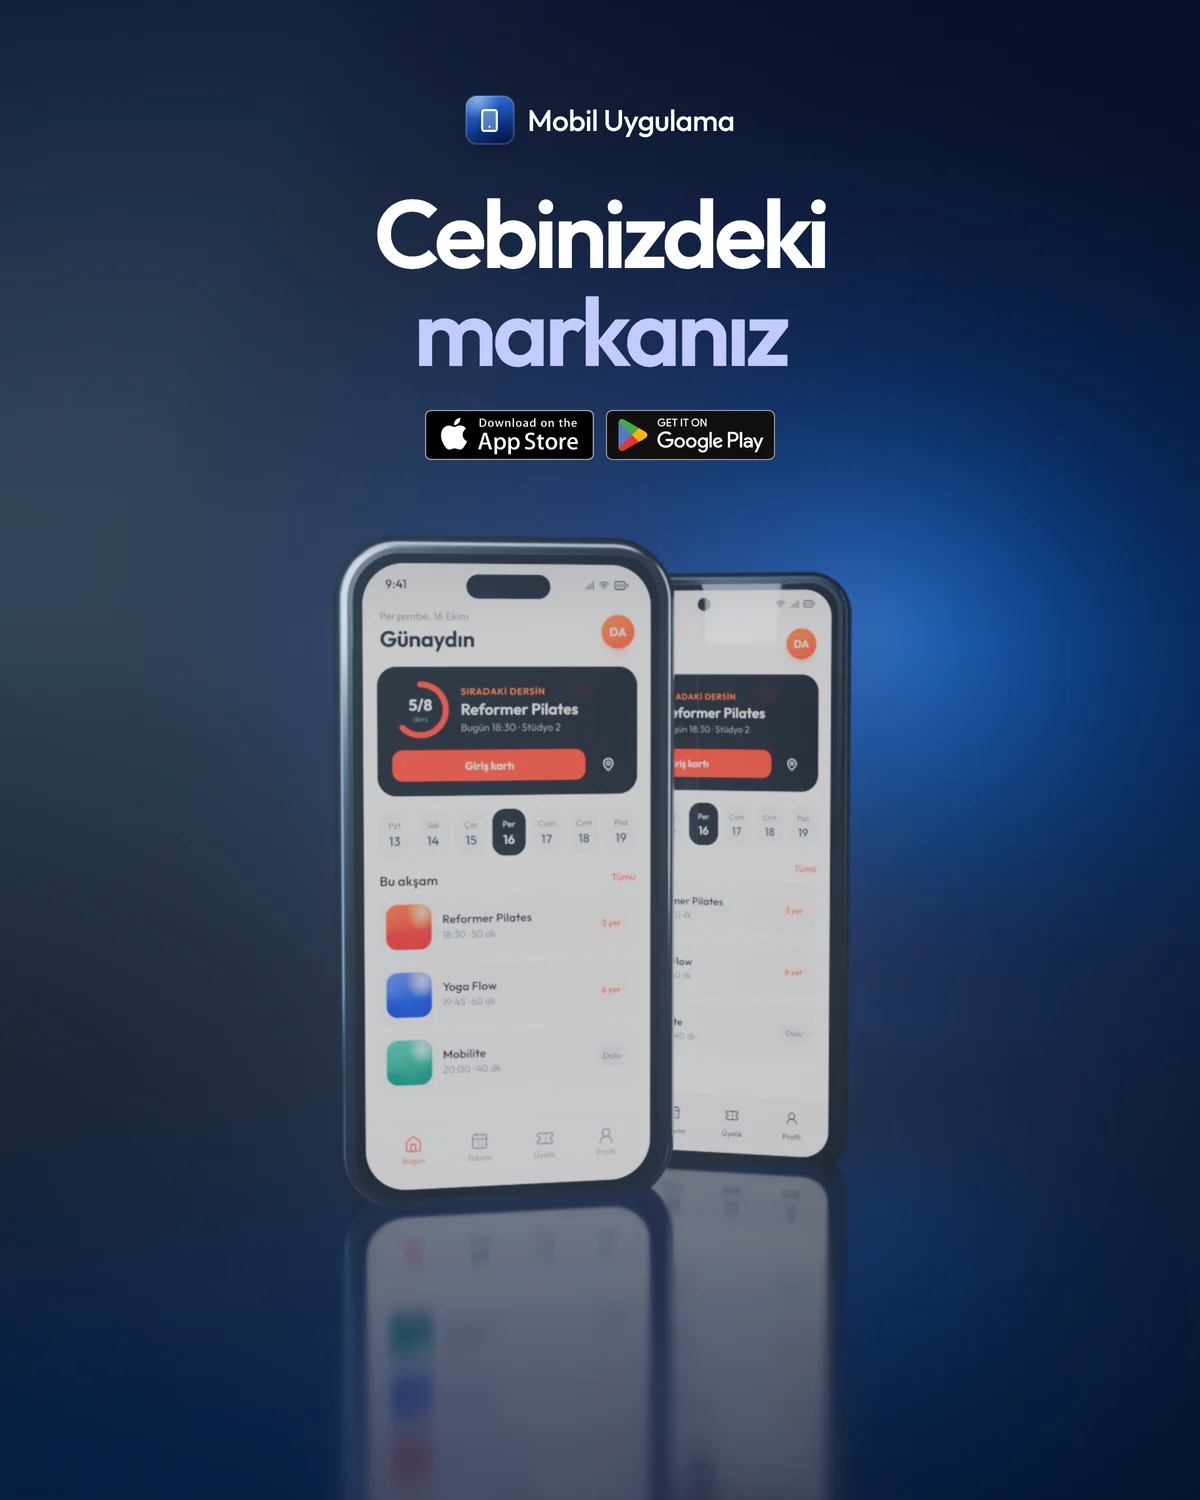
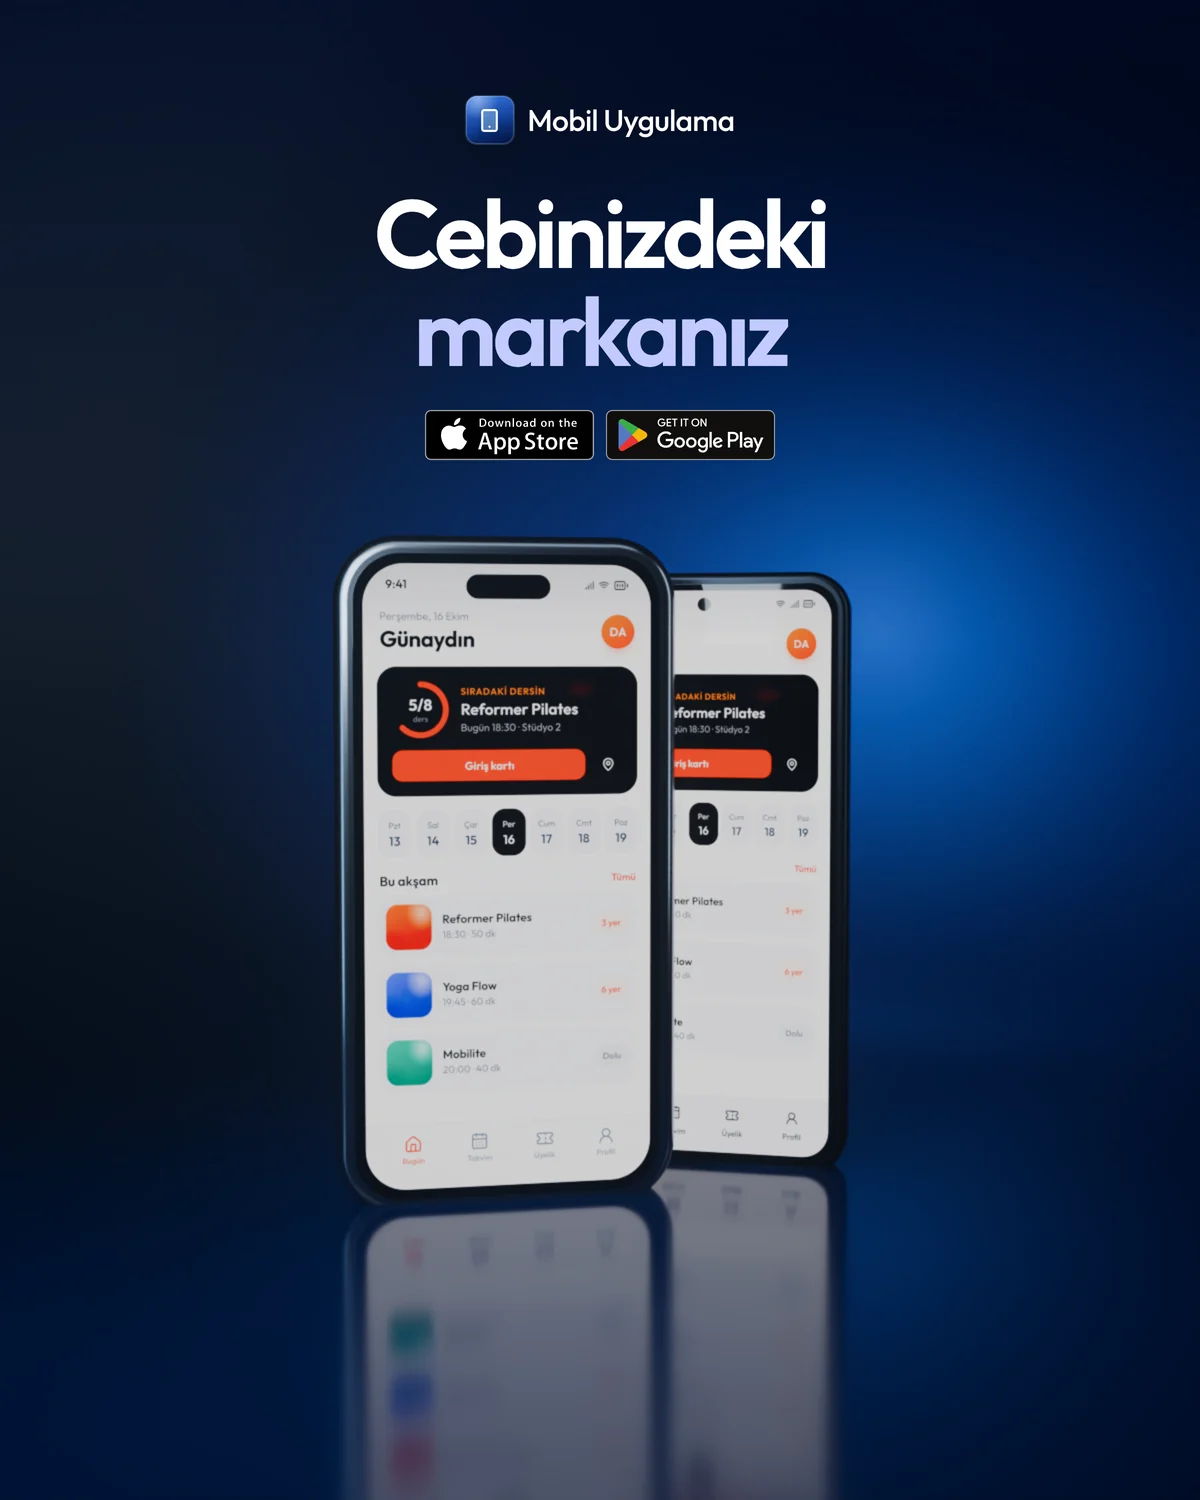
Mobil Uygulama v7: kapakta ışık ve sis, 2. karede ekran yansıması düzeltildi

diff --git a/src/migrations/index.ts b/src/migrations/index.ts
@@ -38,6 +38,7 @@ import * as migration_20261016_155000_bildirimler from './20261016_155000_bildir
 import * as migration_20261016_160000_medya_agaci from './20261016_160000_medya_agaci';
 import * as migration_20261017_100000_mobil_v5 from './20261017_100000_mobil_v5';
 import * as migration_20261017_140000_mobil_v6 from './20261017_140000_mobil_v6';
+import * as migration_20261017_170000_mobil_v7 from './20261017_170000_mobil_v7';
 
 export const migrations = [
   {
@@ -239,5 +240,10 @@ export const migrations = [
     up: migration_20261017_140000_mobil_v6.up,
     down: migration_20261017_140000_mobil_v6.down,
     name: '20261017_140000_mobil_v6',
+  },
+  {
+    up: migration_20261017_170000_mobil_v7.up,
+    down: migration_20261017_170000_mobil_v7.down,
+    name: '20261017_170000_mobil_v7',
   },
 ];

diff --git a/src/migrations/20261017_170000_mobil_v7.ts b/src/migrations/20261017_170000_mobil_v7.ts
@@ -1,0 +1,11 @@
+import { MigrateUpArgs } from '@payloadcms/db-postgres'
+import { galeriGorseliYenile } from './data/katalog'
+
+/** Mobil Uygulama galerisi v7: kapakta ışık ve sis, 2. karede ekran yansıması düzeltildi (hero, kapak, 2; yeni adla, eskileri silinir). Şema değişikliği yok. */
+export async function up({ payload, req }: MigrateUpArgs): Promise<void> {
+  for (const key of ['hero', 'kapak', '2']) await galeriGorseliYenile(payload, req, 'mobil-uygulama', key, 'gercek7-')
+}
+
+export async function down(): Promise<void> {
+  /* İçerik güncellemesi geri alınmaz */
+}

diff --git a/tools/gorsel-studyo/blender/mobil.py b/tools/gorsel-studyo/blender/mobil.py
@@ -28,7 +28,7 @@ def screen_mat(name, img):
     """Ekran: görüntü dokusu ışık verir, üstünde ince parlak cam katmanı (yansımalar)."""
     m = bpy.data.materials.new(name); m.use_nodes = True; nt = m.node_tree; N = nt.nodes; L = nt.links
     b = N["Principled BSDF"]
-    b.inputs["Base Color"].default_value = (0, 0, 0, 1); b.inputs["Roughness"].default_value = 0.05
+    b.inputs["Base Color"].default_value = (0, 0, 0, 1); b.inputs["Roughness"].default_value = 0.05; b.inputs["Specular IOR Level"].default_value = f("spec", 0.5)
     b.inputs["Coat Weight"].default_value = f("coat", 0.35); b.inputs["Coat Roughness"].default_value = 0.02
     tx = N.new("ShaderNodeTexImage"); tx.image = bpy.data.images.load(img); tx.interpolation = "Cubic"
     uv = N.new("ShaderNodeUVMap"); uv.uv_map = "UV"; L.new(uv.outputs["UV"], tx.inputs["Vector"])  # UV: unwrap() ekranın sınır kutusundan
@@ -117,9 +117,9 @@ elif SCENE == "kapak":
     phone("android", AND, (0.55, 0.45, 0), yaw=-12, scale=S)
     phone("ios", IOS, (-0.45, -0.2, 0), yaw=10, scale=S * 1.06)
     tgt = (0, 0, 1.2)
-    softbox("PanoUst", (0, -2.4, 5.2), tgt, size=(4.0, 1.2), strength=4)
-    softbox("PanoSol", (-3.0, -2.6, 2.2), tgt, size=(0.7, 4.0), strength=3.2, color=SKY)
-    softbox("PanoSag", (3.2, -1.2, 2.6), tgt, size=(0.6, 3.6), strength=4.5)
+    softbox("PanoUst", (0, -2.4, 5.2), tgt, size=(4.0, 1.2), strength=f("sb1", 4))
+    softbox("PanoSol", (-3.0, -2.6, 2.2), tgt, size=(0.7, 4.0), strength=f("sb2", 3.2), color=SKY)
+    softbox("PanoSag", (3.2, -1.2, 2.6), tgt, size=(0.6, 3.6), strength=f("sb3", 4.5))
     area("Anahtar", (-2.0, -4.0, 4.0), tgt, size=(3, 3), energy=f("key", 260), color=ICE)
     if f("fog", 0.035) > 0: fog(density=f("fog", 0.035))
     camera((0, -9.0, f("camz", 2.6)), (0, 0, f("tz", 2.15)), lens=f("lens", 44))
